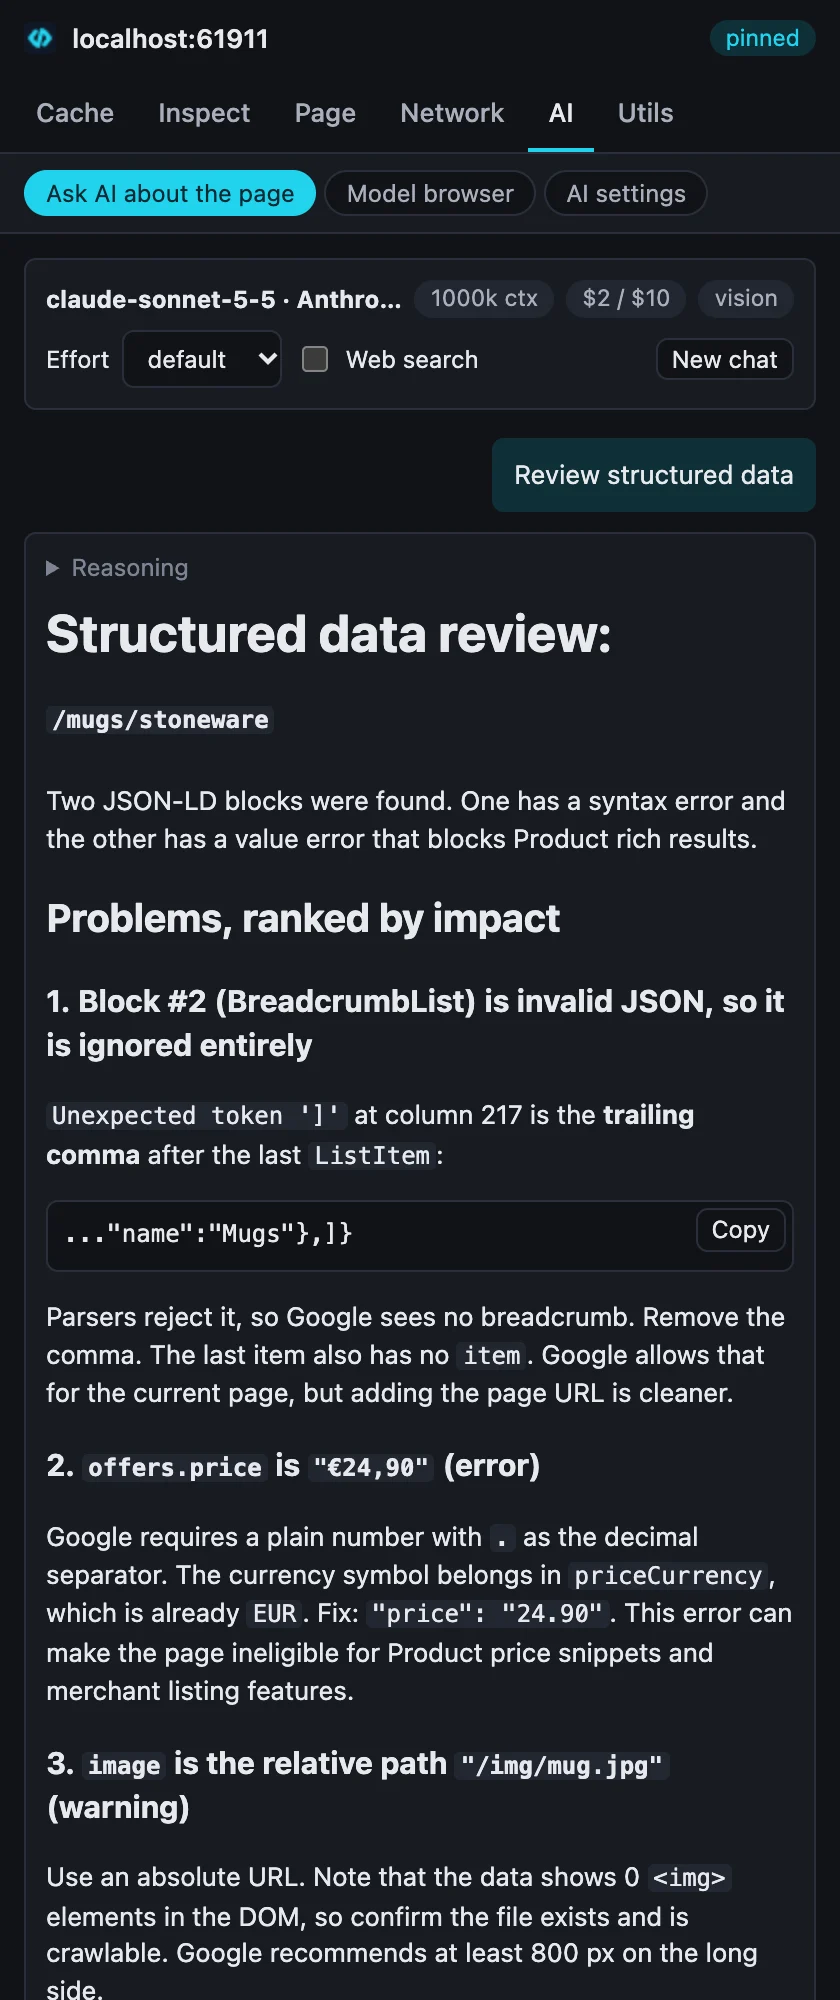
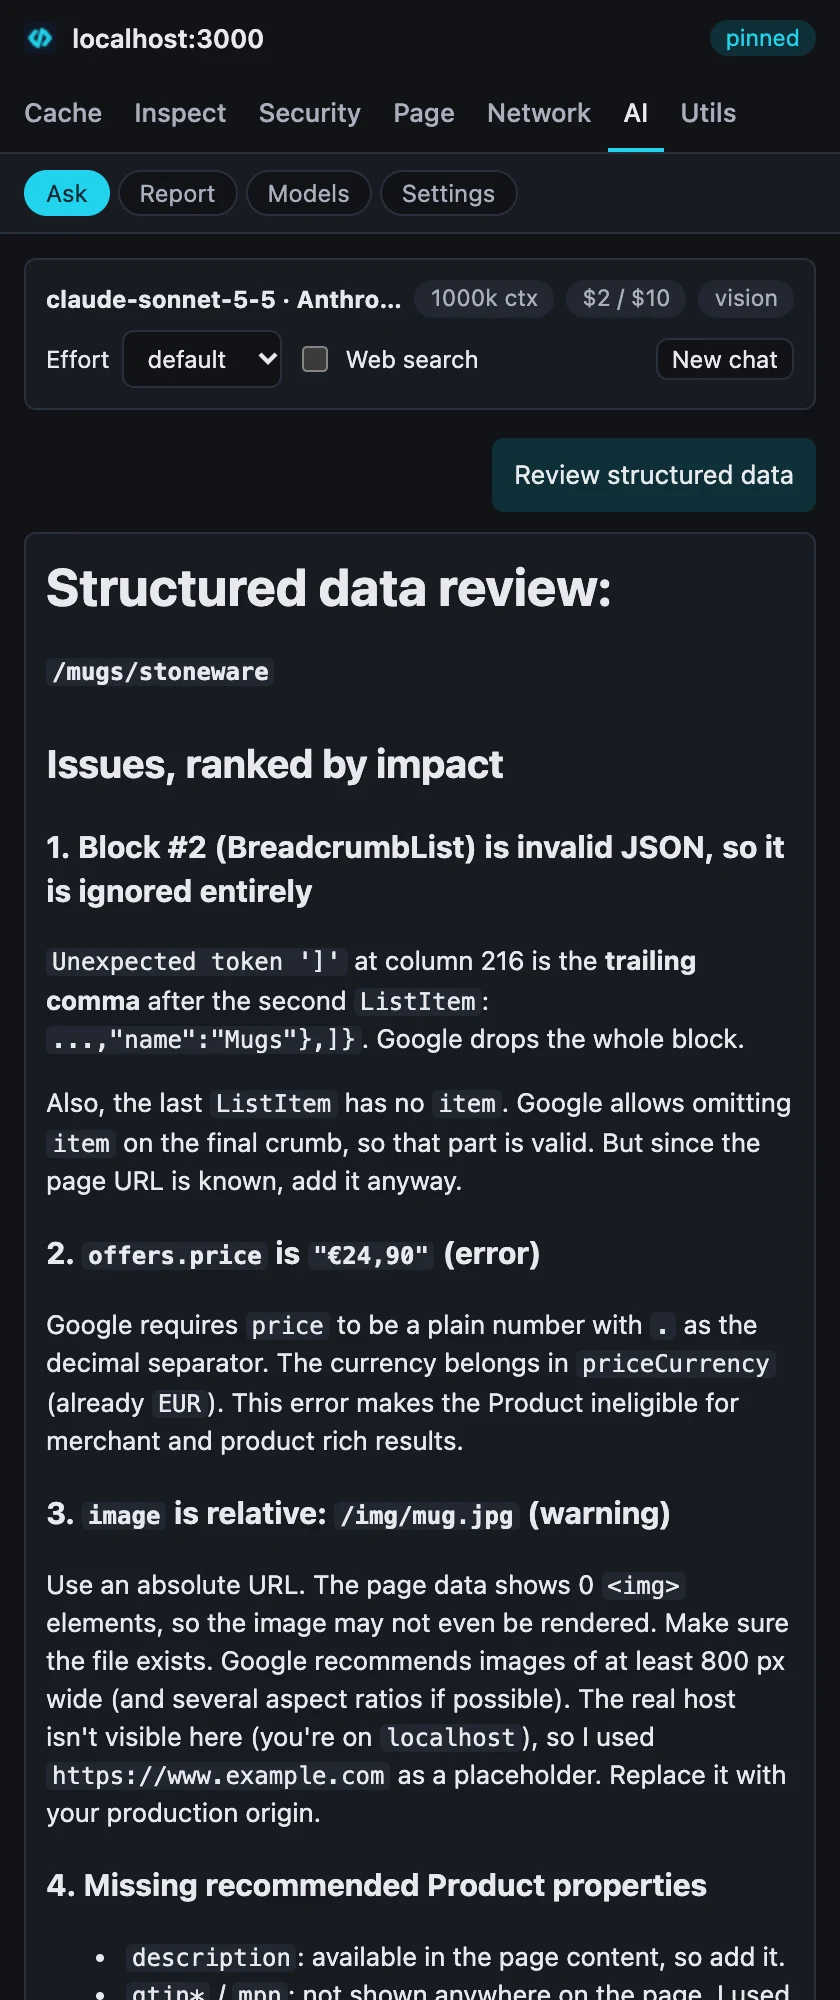
docs(site): the AI screenshot and its receipt from a new real run

diff --git a/site/index.html b/site/index.html
@@ -143,8 +143,8 @@
           <dl class="receipt" aria-label="A real run">
             <div><dt>Run</dt><dd>Review structured data, on the demo page of Fig. 1</dd></div>
             <div><dt>Model</dt><dd>claude-sonnet-5-5 through Anthropic's API</dd></div>
-            <div><dt>Tokens</dt><dd class="num">1,100 in · 2,031 out</dd></div>
-            <div><dt>Cost</dt><dd class="num">$0.023, shown before and after the call</dd></div>
+            <div><dt>Tokens</dt><dd class="num">1,135 in · 1,872 out</dd></div>
+            <div><dt>Cost</dt><dd class="num">$0.021, shown before and after the call</dd></div>
             <div><dt>Found</dt><dd>the trailing comma, the price format, the relative image URL</dd></div>
           </dl>
           <ul class="ai-facts">
